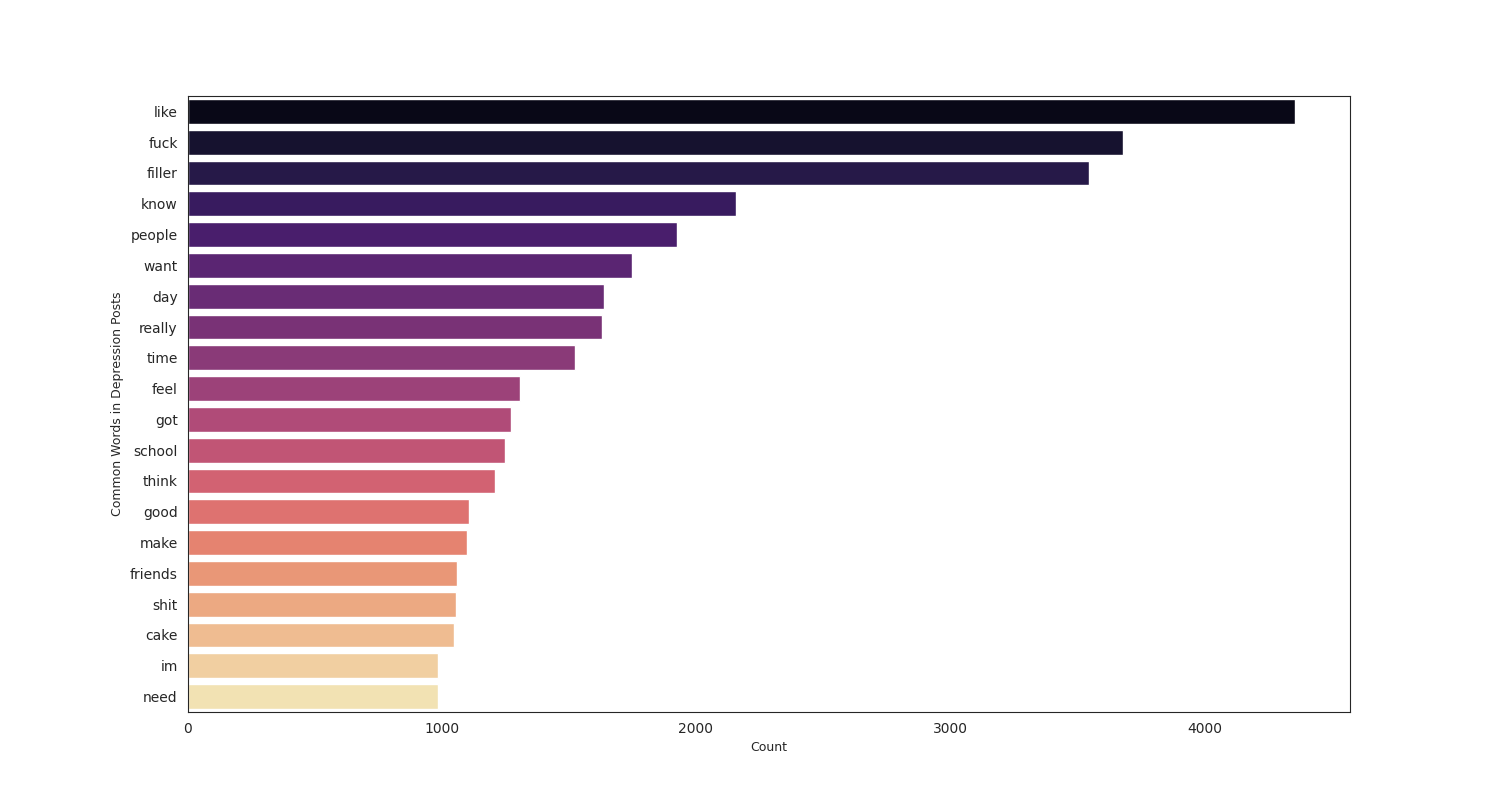
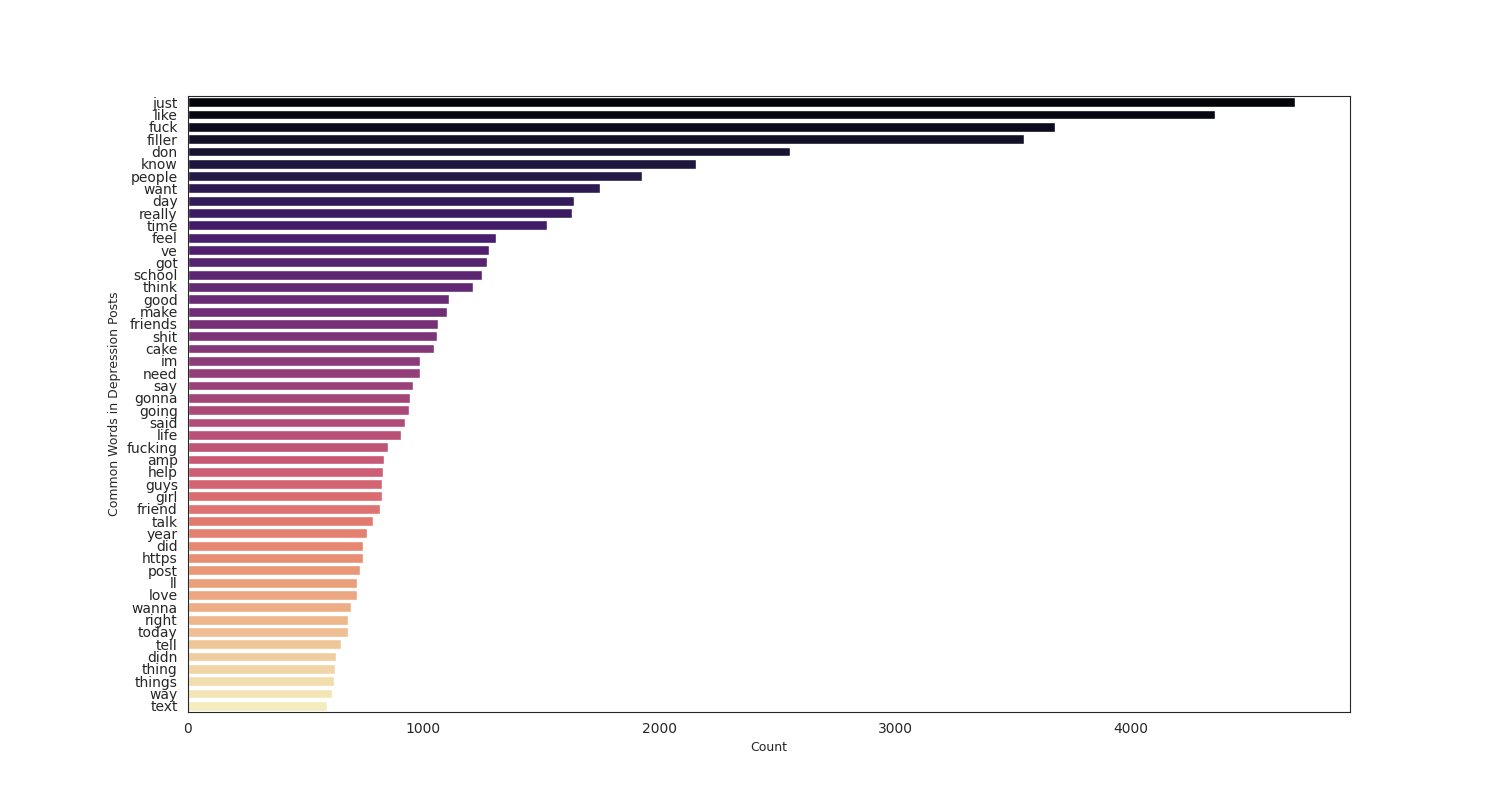
Getting performance for different alpha

diff --git a/encoder.py b/encoder.py
@@ -1,6 +1,7 @@
 import random
+import numpy as np
 from sklearn.model_selection import cross_val_score
-from numpy.lib.function_base import vectorize
+from numpy.lib.function_base import average, vectorize
 # function for transforming documents into counts
 from sklearn.feature_extraction.text import CountVectorizer, TfidfVectorizer
 # function for encoding categories
@@ -19,7 +20,7 @@ def data_split(post1, post2, label1, label2):
     allpairs = list(targetdict.items())
     random.shuffle(allpairs)
 
-    # split 20% of the data as test data and the rest as training data
+    # SPLIT 20% OF THE DATA AS TEST DATA AND THE REST AS TRAINING DATA
     train_pairs = allpairs[:8000]
     test_pairs = allpairs[8000:]
 
@@ -28,44 +29,73 @@ def data_split(post1, post2, label1, label2):
     test_posts = [k for k, v in test_pairs]
     test_label = [v for k, v in test_pairs]
 
+    for index, label in enumerate(train_label):
+        if label == 'general':
+            train_label[index] = 0
+        else:
+            train_label[index] = 1
+    for index, label in enumerate(test_label):
+        if label == 'general':
+            test_label[index] = 0
+        else:
+            test_label[index] = 1
+
     return train_posts, train_label, test_posts, test_label
 
 def countvec_encode(train_posts, train_label, test_posts, test_label):
-    # pull the data into vectors
-    vectorizer = CountVectorizer(max_df=0.25, ngram_range=(2, 3), stop_words='english')
+    # PULL THE DATA INTO VECTORS
+    vectorizer = CountVectorizer(ngram_range=(1, 3))
     train_x = vectorizer.fit_transform(train_posts)
     test_x = vectorizer.transform(test_posts)
     
-    encoder = LabelEncoder()
-    train_y = encoder.fit_transform(train_label)
-    test_y = encoder.transform(test_label)
+    # encoder = LabelEncoder()
+    # train_y = encoder.fit_transform(train_label)
+    # test_y = encoder.transform(test_label)
+    train_y = train_label
+    test_y = test_label
 
     return train_x, test_x, train_y, test_y
 
 def tfidfvec_encode(train_posts, train_label, test_posts, test_label):
-    vectorizer = TfidfVectorizer(max_df=0.25, ngram_range=(2, 3), stop_words='english')
+    vectorizer = TfidfVectorizer(ngram_range=(1, 3))
     train_x = vectorizer.fit_transform(train_posts)
     test_x = vectorizer.transform(test_posts)
     
-    encoder = LabelEncoder()
-    train_y = encoder.fit_transform(train_label)
-    test_y = encoder.transform(test_label)
+    # encoder = LabelEncoder()
+    # train_y = encoder.fit_transform(train_label)
+    # test_y = encoder.transform(test_label)
+    train_y = train_label
+    test_y = test_label
 
     return train_x, test_x, train_y, test_y
 
 
 def NBmodel(train_x, test_x, train_y, test_y):
 
-    nb = MultinomialNB(alpha = 1)
-    nb.fit(train_x, train_y)
-    # print(nb.get_params(deep=True))
+    # find optimal alpha with grid search
+    alpha = [0.0005, 0.001, 0.005, 0.01, 0.1, 1, 10, 20, 100, 1000]
+    allresult = {}
+    for eachalpha in alpha:
+        nb = MultinomialNB(alpha = eachalpha)
+        nb.fit(train_x, train_y)
+   
+        cv_accuracy = cross_val_score(nb, train_x, train_y, scoring='accuracy', cv=10)
+        cv_precision = cross_val_score(nb, train_x, train_y, scoring='precision', cv=10)
+        cv_recall = cross_val_score(nb, train_x, train_y, cv=10, scoring='recall')
+        cv_f1 = cross_val_score(nb, train_x, train_y, cv=10, scoring='f1')
+        allresult[eachalpha] = "Accuracy: " + str(np.mean(cv_accuracy)) \
+        + "\nPrecision: " + str(np.mean(cv_precision)) + "\nRecall: " + str(np.mean(cv_recall)) \
+        + "\nF1: " + str(np.mean(cv_f1))
+        print(str(eachalpha) + ":\n" + allresult[eachalpha])
 
-    
-    cv_score = cross_val_score(nb, train_x, train_y, scoring='accuracy', cv=10)
-    print("An estimated score for each run of the cross validation is presented below: \n" + str(cv_score) + '\n')
-
+        # print("An estimated score for each run of the cross validation is presented below: \n" + str(cv_score) + '\n  _______')
+        # print("The mean score for each run of the cross validation is presented below: \n" + str(np.mean(cv_score)) + '\n  _______')
+    # cv_accuracy = cross_val_score(nb, train_x, train_y, scoring='accuracy', cv=10)
+    # cv_precision = cross_val_score(nb, train_x, train_y, scoring='precision', cv=10)
+    # cv_recall = cross_val_score(nb, train_x, train_y, cv=10, scoring='recall')
+    # cv_f1 = cross_val_score(nb, train_x, train_y, cv=10, scoring='f1')
     pred_y = nb.predict(test_x)
-    precision, recall, f1_xcore, x = precision_recall_fscore_support(test_y, pred_y, average='macro')
+    precision, recall, f1_xcore, x = precision_recall_fscore_support(test_y, pred_y, average = 'binary', pos_label=1)
     # print("Precision: " + str(precision) + "\nRecall: " + str(recall) + "\nF-beta score: " + str(f1_xcore) )
     return precision, recall, f1_xcore
 

diff --git a/NB=model_dep_gen.py b/NB=model_dep_gen.py
@@ -1,6 +1,6 @@
 """Statistical Language processing term project
     This script adopts the multinomial Naive Bayes classifier to predict the label of the posts
-    Note: Only suicidal and depression posts are used in this approach """
+    Note: Only suicidal and general posts are used in this approach """
 from preprocessdata import preprocess
 from encoder import data_split, countvec_encode, NBmodel, tfidfvec_encode
 
@@ -9,19 +9,21 @@ if __name__ == "__main__":
 
     suicide_posts, depress_posts, general_posts, suicide_label, depress_label, general_label = preprocess("Suicide_Detection.csv", "reddit_data.csv")
 
-    train_posts, train_label, test_posts, test_label = data_split(suicide_posts, depress_posts, suicide_label, depress_label)
+    train_posts, train_label, test_posts, test_label = data_split(depress_posts, general_posts, depress_label, general_label)
     vec_train_x, vec_test_x, vec_train_y, vec_test_y = countvec_encode(train_posts, train_label, test_posts, test_label)
+    # print(vec_test_y) 
     # print count vectorized result
+    print("By using CountVectorizer, the model reaches:")
     print("____________________________")
     print("CountVectorizer preformance: ")
-    precision, recall, f_beta = NBmodel(vec_train_x, vec_test_x, vec_train_y, vec_test_y)
-    print("By using CountVectorizer, the model reaches:")
-    print("Precision: " + str(precision) + "\nRecall: " + str(recall) + "\nF-beta score: " + str(f_beta) )
+    NBmodel(vec_train_x, vec_test_x, vec_train_y, vec_test_y)
+    # print("By using CountVectorizer, the model reaches:")
+    # print("Precision: " + str(precision) + "\nRecall: " + str(recall) + "\nF-beta score: " + str(f_beta) )
     
     # print tf-idf vectorized result
     print("____________________________")
     print("TF-IDF preformance: ")
     tf_vec_train_x, tf_vec_test_x, tf_vec_train_y, tf_vec_test_y = tfidfvec_encode(train_posts, train_label, test_posts, test_label)
-    precision, recall, f_beta = NBmodel(tf_vec_train_x, tf_vec_test_x, tf_vec_train_y, tf_vec_test_y)
-    print("By using TF-IDF Vectorizer, the model reaches:")
-    print("Precision: " + str(precision) + "\nRecall: " + str(recall) + "\nF-beta score: " + str(f_beta) )
+    NBmodel(tf_vec_train_x, tf_vec_test_x, tf_vec_train_y, tf_vec_test_y)
+    # print("By using TF-IDF Vectorizer, the model reaches:")
+    # print("Precision: " + str(precision) + "\nRecall: " + str(recall) + "\nF-beta score: " + str(f_beta) )

diff --git a/NB-model_sui_gen.py b/NB-model_sui_gen.py
@@ -9,20 +9,21 @@ if __name__ == "__main__":
 
     suicide_posts, depress_posts, general_posts, suicide_label, depress_label, general_label = preprocess("Suicide_Detection.csv", "reddit_data.csv")
 
-    train_posts, train_label, test_posts, test_label = data_split(suicide_posts, depress_posts, suicide_label, depress_label)
+    train_posts, train_label, test_posts, test_label = data_split(suicide_posts, general_posts, suicide_label, general_label)
     vec_train_x, vec_test_x, vec_train_y, vec_test_y = countvec_encode(train_posts, train_label, test_posts, test_label)
+    # print(vec_test_y) 
     # print count vectorized result
     print("By using CountVectorizer, the model reaches:")
     print("____________________________")
     print("CountVectorizer preformance: ")
-    precision, recall, f_beta = NBmodel(vec_train_x, vec_test_x, vec_train_y, vec_test_y)
-    print("By using CountVectorizer, the model reaches:")
-    print("Precision: " + str(precision) + "\nRecall: " + str(recall) + "\nF-beta score: " + str(f_beta) )
+    NBmodel(vec_train_x, vec_test_x, vec_train_y, vec_test_y)
+    # print("By using CountVectorizer, the model reaches:")
+    # print("Precision: " + str(precision) + "\nRecall: " + str(recall) + "\nF-beta score: " + str(f_beta) )
     
     # print tf-idf vectorized result
     print("____________________________")
     print("TF-IDF preformance: ")
     tf_vec_train_x, tf_vec_test_x, tf_vec_train_y, tf_vec_test_y = tfidfvec_encode(train_posts, train_label, test_posts, test_label)
-    precision, recall, f_beta = NBmodel(tf_vec_train_x, tf_vec_test_x, tf_vec_train_y, tf_vec_test_y)
-    print("By using TF-IDF Vectorizer, the model reaches:")
-    print("Precision: " + str(precision) + "\nRecall: " + str(recall) + "\nF-beta score: " + str(f_beta) )
+    NBmodel(tf_vec_train_x, tf_vec_test_x, tf_vec_train_y, tf_vec_test_y)
+    # print("By using TF-IDF Vectorizer, the model reaches:")
+    # print("Precision: " + str(precision) + "\nRecall: " + str(recall) + "\nF-beta score: " + str(f_beta) )

diff --git a/text_feature_exploration.py b/text_feature_exploration.py
@@ -32,12 +32,12 @@ def plot_most_used_words(dataname, data_series, palette):
     total_words = created_df.sum(axis=0)
     
     #CREATING A FINAL DATAFRAME OF THE TOP 20 WORDS
-    top_20_words = total_words.sort_values(ascending = False).head(20)
-    top_20_words_df = pd.DataFrame(top_20_words, columns = ["count"])
+    top_50_words = total_words.sort_values(ascending = False).head(50)
+    top_50_words_df = pd.DataFrame(top_50_words, columns = ["count"])
     #PLOTTING THE COUNT OF THE TOP 20 WORDS
     sns.set_style("white")
     plt.figure(figsize = (15, 8))
-    ax = sns.barplot(y= top_20_words_df.index, x="count", data=top_20_words_df, palette = palette)
+    ax = sns.barplot(y= top_50_words_df.index, x="count", data=top_50_words_df, palette = palette)
     
     plt.xlabel("Count", fontsize=9)
     plt.ylabel(dataname, fontsize=9)

diff --git a/preprocessdata.py b/preprocessdata.py
@@ -16,7 +16,7 @@ from sklearn.naive_bayes import MultinomialNB
 from sklearn.metrics import precision_recall_fscore_support
 from nltk.tokenize import word_tokenize
 import nltk
-from nltk.corpus import stopwords
+
 
 
 def preprocess(file1, file2):
